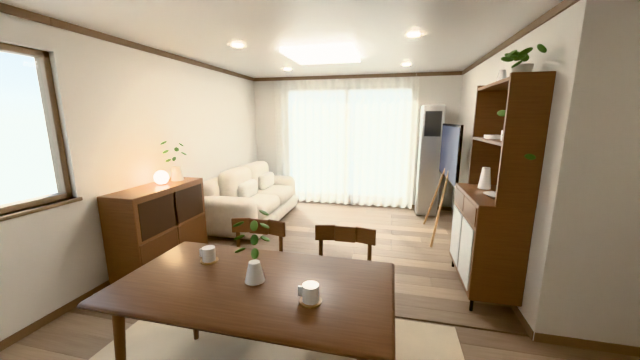
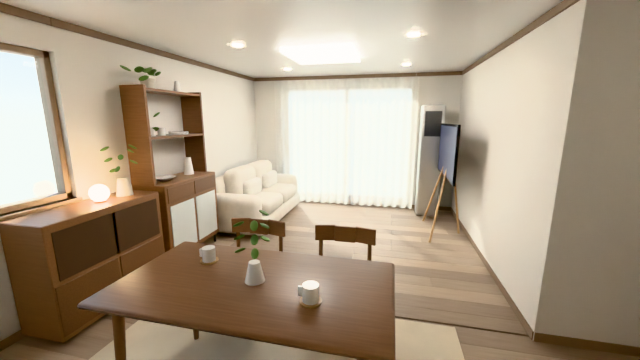
Hutch and oven sideboard beside the sofa on the east wall
Claude-Session: https://claude.ai/code/session_011EH9rtECRf1k1R2CoNo47H

diff --git a/blueprint/floor2/house.py b/blueprint/floor2/house.py
@@ -561,29 +561,30 @@ def furnish():
     S = STAGE
     # ---- living: sofa before the sheer south window, TV on an easel by the west wall, cabinets on the east wall
     S[0] = "furniture"
-    sofa(9.88, 1.4, yaw=0)   # across the room from the TV
+    sofa(9.88, 1.25, yaw=0)   # across the room from the TV
     box("aircon", 6.95, 7.3, 0.22, 0.55, 0.0, 1.85, "silver", 0.03, 3)
     box("aircon_vent", 7.0, 7.25, 0.552, 0.556, 1.35, 1.75, "steel")
     # TV on a tripod easel
-    tvr = ((7.02, 1.4), 0)
-    box("tv", 6.98, 7.01, 0.75, 2.05, 0.82, 1.56, "screen", 0.004, rot=tvr)
-    box("tv_art", 7.01, 7.013, 0.78, 2.02, 0.85, 1.53, "art", rot=tvr)
-    rod("easel_leg_a", (7.2, 0.95, 0), (6.95, 1.35, 1.2), 0.016, "oak2", r2=0.012)
-    rod("easel_leg_b", (7.2, 1.85, 0), (6.95, 1.45, 1.2), 0.016, "oak2", r2=0.012)
-    rod("easel_leg_c", (6.75, 1.4, 0), (6.93, 1.4, 1.2), 0.016, "oak2", r2=0.012)
+    tvr = ((7.02, 1.25), 0)
+    box("tv", 6.98, 7.01, 0.6, 1.9, 0.82, 1.56, "screen", 0.004, rot=tvr)
+    box("tv_art", 7.01, 7.013, 0.63, 1.87, 0.85, 1.53, "art", rot=tvr)
+    rod("easel_leg_a", (7.2, 0.8, 0), (6.95, 1.2, 1.2), 0.016, "oak2", r2=0.012)
+    rod("easel_leg_b", (7.2, 1.7, 0), (6.95, 1.3, 1.2), 0.016, "oak2", r2=0.012)
+    rod("easel_leg_c", (6.75, 1.25, 0), (6.93, 1.25, 1.2), 0.016, "oak2", r2=0.012)
     # sideboard with the oven and rice cooker, then the hutch
     S[0] = "builtin"
-    box("sideboard", 9.98, 10.38, 2.55, 3.6, 0.04, 0.92, "walnut", 0.006)
-    box("sideboard_niche", 9.975, 10.3, 2.6, 3.55, 0.5, 0.86, "walnut_dark")
-    box("sideboard_div", 9.975, 10.3, 3.06, 3.09, 0.5, 0.86, "walnut")
-    box("oven", 10.0, 10.3, 3.12, 3.52, 0.5, 0.74, "cream", 0.02, 3)
-    box("oven_window", 9.996, 10.0, 3.16, 3.4, 0.54, 0.7, "screen")
-    box("rice_cooker", 10.02, 10.28, 2.66, 2.98, 0.5, 0.72, "white", 0.06, 4)
+    # east wall, as in the reference: sofa, then the hutch, then the oven sideboard beside the dining table
+    DY = 0.73
+    hb = lambda n, x0, x1, y0, y1, *a, **k: box(n, x0, x1, y0 + DY, y1 + DY, *a, **k)
+    hc = lambda n, x, y, *a, **k: cyl(n, x, y + DY, *a, **k)
+    hb("sideboard", 9.98, 10.38, 2.55, 3.6, 0.04, 0.92, "walnut", 0.006)
+    hb("sideboard_niche", 9.975, 10.3, 2.6, 3.55, 0.5, 0.86, "walnut_dark")
+    hb("sideboard_div", 9.975, 10.3, 3.06, 3.09, 0.5, 0.86, "walnut")
+    hb("oven", 10.0, 10.3, 3.12, 3.52, 0.5, 0.74, "cream", 0.02, 3)
+    hb("oven_window", 9.996, 10.0, 3.16, 3.4, 0.54, 0.7, "screen")
+    hb("rice_cooker", 10.02, 10.28, 2.66, 2.98, 0.5, 0.72, "white", 0.06, 4)
     for i in range(2):
-        box("sideboard_drawer", 9.972, 9.98, 2.57 + 0.52 * i, 3.07 + 0.52 * i, 0.08, 0.47, "walnut", 0.003)
-    # the hutch stands on the west wall beside the TV (mirrored from the east wall, shifted north)
-    hb = lambda n, x0, x1, y0, y1, *a, **k: box(n, 17.04 - x1, 17.04 - x0, y0 + 0.75, y1 + 0.75, *a, **k)
-    hc = lambda n, x, y, *a, **k: cyl(n, 17.04 - x, y + 0.75, *a, **k)
+        hb("sideboard_drawer", 9.972, 9.98, 2.57 + 0.52 * i, 3.07 + 0.52 * i, 0.08, 0.47, "walnut", 0.003)
     hb("hutch_base", 9.98, 10.38, 1.55, 2.47, 0.12, 0.95, "walnut", 0.006)
     for i in range(2):
         hb("hutch_glass", 9.972, 9.98, 1.6 + 0.43 * i, 1.99 + 0.43 * i, 0.18, 0.72, "ribbed")
@@ -603,15 +604,15 @@ def furnish():
     for i in range(14):
         o = ball("ivy", 0, 0, 0, 0.05, "leaf2", squash=(1, 0.7, 0.2))
         t = i / 13
-        o.location = (6.84 + 0.08 * math.sin(i * 2.3), 3.0 + 0.14 * math.cos(i * 1.9) + 0.12 * t, 2.1 - 0.75 * t ** 1.5 * (i % 2))
+        o.location = (10.2 - 0.08 * math.sin(i * 2.3), 2.25 + DY + 0.14 * math.cos(i * 1.9) + 0.12 * t, 2.1 - 0.75 * t ** 1.5 * (i % 2))
         o.rotation_euler = (0.5, 0.4, i * 2.3); o["home"] = tuple(o.location)
-    cyl("side_vase", 10.18, 2.75, 0.07, 0.92, 1.08, "pot", r2=0.045)
+    hc("side_vase", 10.18, 2.75, 0.07, 0.92, 1.08, "pot", r2=0.045)
     for i in range(7):
         o = ball("twig", 0, 0, 0, 0.04, "leaf2", squash=(1, 0.6, 0.2))
-        o.location = (10.18 + 0.1 * math.cos(i * 2.2), 2.75 + 0.12 * math.sin(i * 2.2), 1.15 + 0.035 * i)
+        o.location = (10.18 + 0.1 * math.cos(i * 2.2), 2.75 + DY + 0.12 * math.sin(i * 2.2), 1.15 + 0.035 * i)
         o.rotation_euler = (0.4, 0.5, i * 2.2); o["home"] = tuple(o.location)
-    ball("glow_lamp", 10.18, 3.0, 1.0, 0.075, "lamp", stage="lights")
-    cyl("glow_lamp_base", 10.18, 3.0, 0.045, 0.92, 0.935, "oak2")
+    ball("glow_lamp", 10.18, 3.0 + DY, 1.0, 0.075, "lamp", stage="lights")
+    hc("glow_lamp_base", 10.18, 3.0, 0.045, 0.92, 0.935, "oak2")
     curtain("x", 0.2, 7.35, 9.95, name="curtain_south")
     # ---- dining (the walnut set in the photo) on a jute rug
     S[0] = "furniture"
